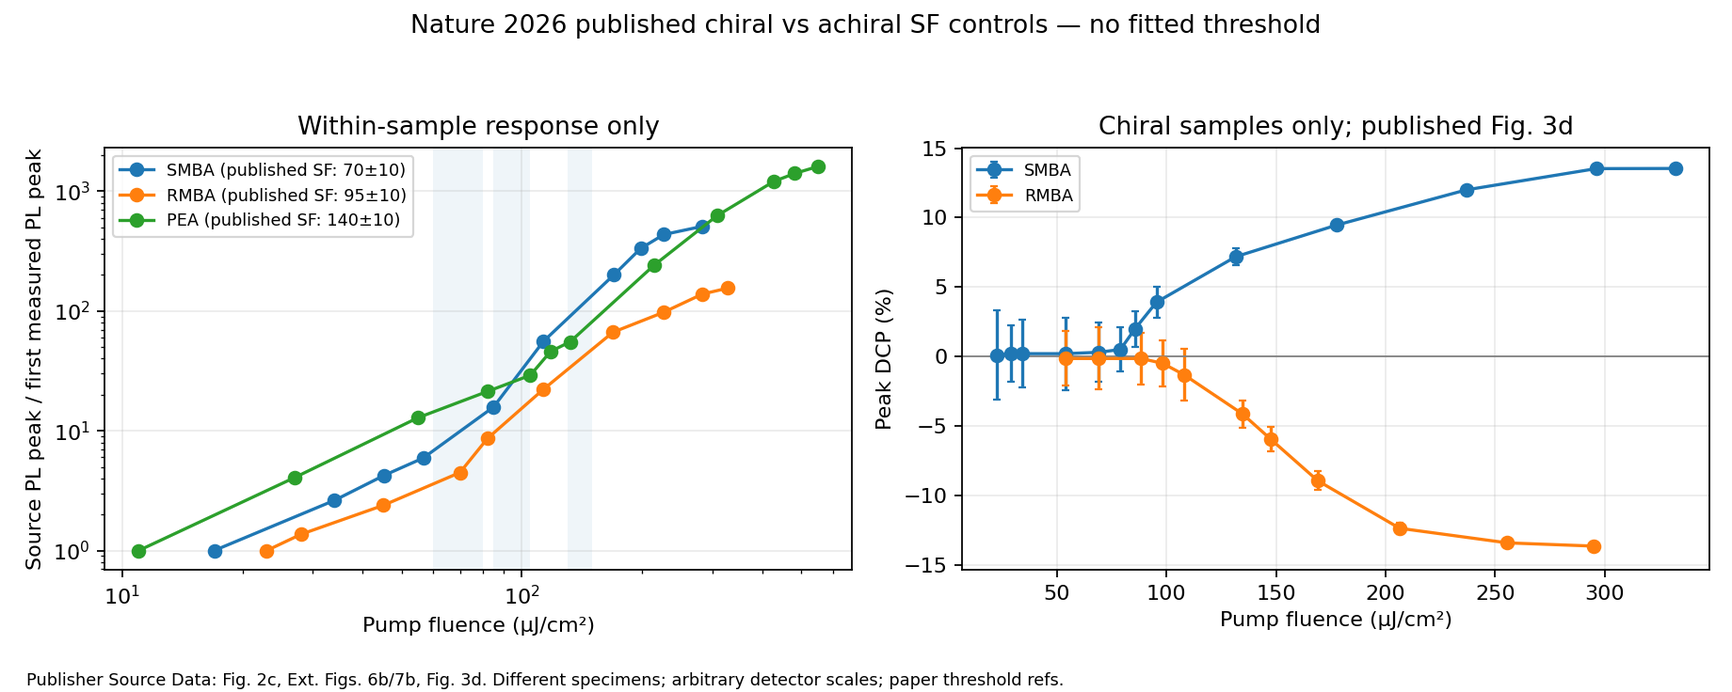
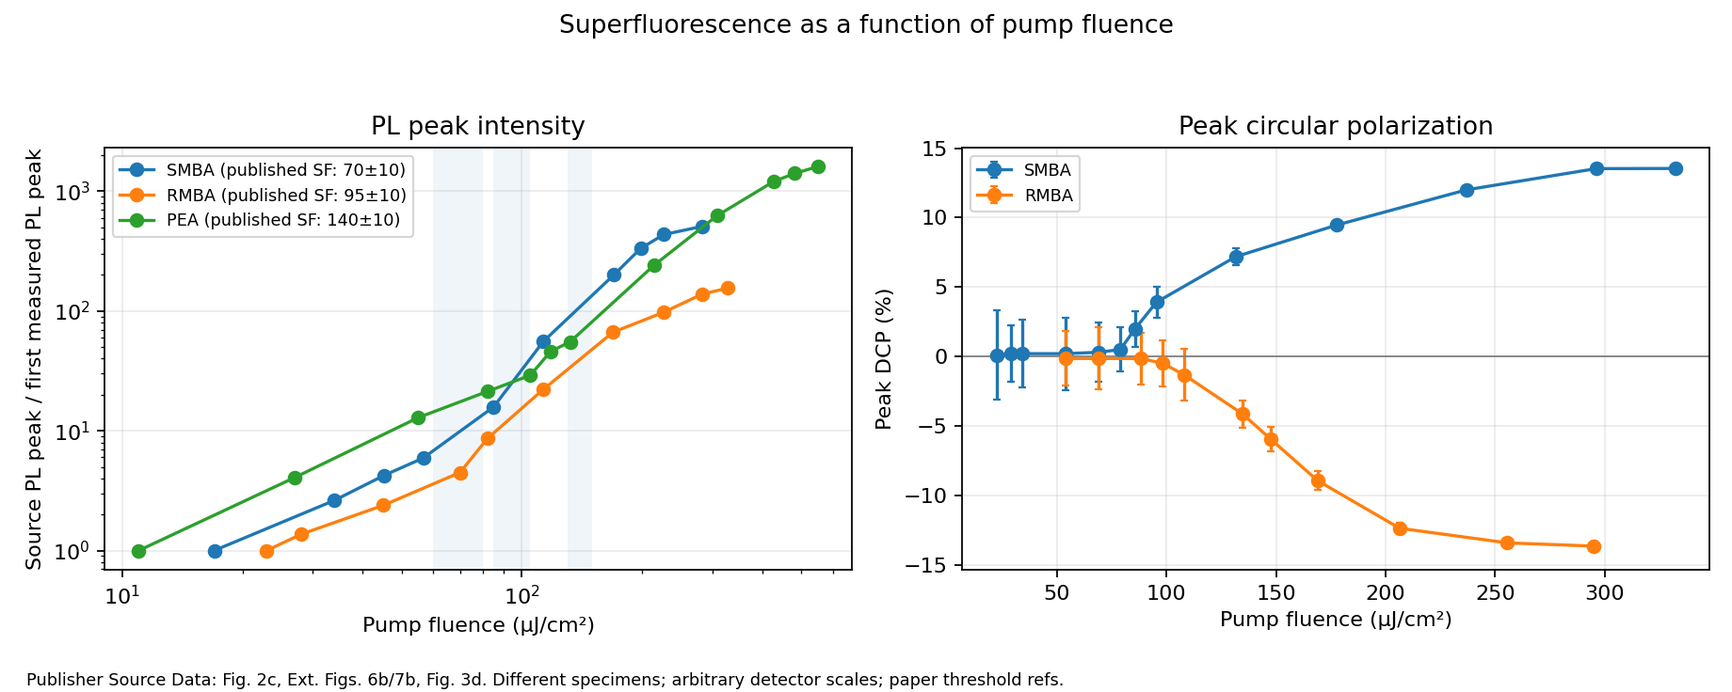
Revise project narrative and figure captions

Changed region(s): [[0.2478, 0.0, 0.7745, 0.0625], [0.6196, 0.1562, 0.8984, 0.2188], [0.1549, 0.1562, 0.3717, 0.2188]]

diff --git a/src/chiral_perovskites/fluence_response.py b/src/chiral_perovskites/fluence_response.py
@@ -148,7 +148,7 @@ def plot_gate(audit:dict,out:Path)->None:
     left.set_xscale("log");left.set_yscale("log")
     left.set_xlabel("Pump fluence (µJ/cm²)")
     left.set_ylabel("Source PL peak / first measured PL peak")
-    left.set_title("Within-sample response only")
+    left.set_title("PL peak intensity")
     left.legend(fontsize=8)
     left.grid(alpha=.25)
     for name,pts in audit["dcp"].items():
@@ -159,10 +159,10 @@ def plot_gate(audit:dict,out:Path)->None:
     right.axhline(0,color="gray",linewidth=.8)
     right.set_xlabel("Pump fluence (µJ/cm²)")
     right.set_ylabel("Peak DCP (%)")
-    right.set_title("Chiral samples only; published Fig. 3d")
+    right.set_title("Peak circular polarization")
     right.legend(fontsize=8)
     right.grid(alpha=.25)
-    fig.suptitle("Nature 2026 published chiral vs achiral SF controls — no fitted threshold",fontsize=12)
+    fig.suptitle("Superfluorescence as a function of pump fluence",fontsize=12)
     fig.text(.015,.01,"Publisher Source Data: Fig. 2c, Ext. Figs. 6b/7b, Fig. 3d. Different specimens; arbitrary detector scales; paper threshold refs.",fontsize=8)
     fig.tight_layout(rect=[0,.04,1,.94])
     out.parent.mkdir(parents=True,exist_ok=True)

diff --git a/src/chiral_perovskites/spin_led.py b/src/chiral_perovskites/spin_led.py
@@ -167,7 +167,7 @@ def create_figures(optical: list[dict], device: list[dict], out_dir: Path) -> No
     ax.errorbar(xs[order], a[order], yerr=ea[order], marker="o", capsize=3, label="polarization (source column)")
     ax.errorbar(xs[order], b[order], yerr=eb[order], marker="s", capsize=3, label="polarization1 (source column)")
     ax.axhline(0,color="gray",linewidth=0.8)
-    ax.set(xlabel="Applied current (raw source values; units via article)", ylabel="Degree of circular polarization (source values)", title="Published spin-LED data — column identities require figure verification")
+    ax.set(xlabel="Applied current (raw source values; units via article)", ylabel="Degree of circular polarization (source values)", title="Spin-LED circular polarization vs applied current")
     ax.legend(fontsize=8)
     fig.savefig(out_dir/"osf_chiral_device_docp.png",dpi=180)
     plt.close(fig)

diff --git a/src/chiral_perovskites/polarized_pl.py b/src/chiral_perovskites/polarized_pl.py
@@ -205,7 +205,7 @@ def plot_one_reproduction(t:np.ndarray, s:np.ndarray, r:np.ndarray,
         axes[1].set_xlabel("Delay (ps)")
         axes[1].set_ylabel("Bright-signal channel contrast (%)")
         axes[1].grid(alpha=.2)
-    fig.suptitle("Source Data Fig. 3c / reproduced chiral SF polarization — no kinetic fit", fontsize=13, y=.98)
+    fig.suptitle("Time-resolved PL and circular polarization", fontsize=13, y=.98)
     fig.text(.02,.040,"Wei et al., Nature 654, 369–374 (2026) | DOI 10.1038/s41586-026-10637-x | 300 µJ/cm²",fontsize=8)
     fig.text(.02,.019,"*RMBA column 2 repeats 'LCP' in publisher XLSX; provisionally opposite-helicity. "
              "Temporal resolution ~10 ps (source spacing 0.35 ps).",fontsize=8)

diff --git a/README.md b/README.md
@@ -1,66 +1,61 @@
-# Chirality and polarization in layered halide perovskites
+# Optical data from chiral layered perovskites
 
-Organic chiral cations can alter the symmetry of layered halide perovskites and the polarization of their optical response. This repository examines published crystal structures, circular dichroism, polarized emission and time-resolved measurements to distinguish structural chirality from the optical and device signals associated with it.
+This started with a comparison of R-, S- and racemic NEA₂PbBr₄ crystal structures. The symmetry assignments were straightforward, but the available optical measurements were made on different crystals or thin films. There was no direct way to relate a particular octahedral distortion to a measured circular-dichroism signal.
 
-The work uses experimental datasets from several studies. The central analysis concerns R/S and achiral perovskite superlattices; single-crystal geometry and chiral spin-LED measurements provide separate comparisons. Results are reproductions and data checks of published experiments, with no new physical mechanism claimed.
+I subsequently looked at published optical datasets that contained both polarization channels, especially the chiral superlattice measurements reported by Wei et al. in 2026. The repository contains the corresponding analysis scripts, selected plots and structural comparisons. All spectra and crystal structures are taken from the cited experimental studies.
 
-## Circularly polarized superfluorescence
+## Time-resolved emission
 
-Wei et al., [*Nature* 654 (2026) 369–374](https://doi.org/10.1038/s41586-026-10637-x), measured polarization-resolved emission from quasi-two-dimensional perovskite superlattices containing R- or S-MBA spacers. Their Fig. 3 source data include paired emission channels over 1,399 delays and a separate fluence-dependent polarization series.
+Wei et al., [*Nature* **654**, 369–374 (2026)](https://doi.org/10.1038/s41586-026-10637-x), published polarization-resolved photoluminescence from superlattices made with R- or S-MBA. Source Data Fig. 3c contains 1,399 delay points for each sample, measured at a pump fluence of 300 µJ cm⁻².
 
-![Reproduced time-resolved emission and circular polarization from published source data](results/nature2026_sf_fig3c_reproduction.png)
+![Time-resolved PL and polarization contrast](results/nature2026_sf_fig3c_reproduction.png)
 
-The degree of circular polarization at the peak of the total emission is +13.49% for the S-MBA sample and −13.76% for R-MBA, calculated directly from the deposited time traces. Subtracting the mean pre-burst background changes these to +13.52% and −13.81%. These values agree with the paper's Fig. 3d measurements near 300 µJ cm⁻².
+Taking the left- and right-circular channels at the maximum of their summed intensity gives peak circular polarization of +13.49% for S-MBA and −13.76% for R-MBA. The corresponding values after subtracting the pre-burst background are +13.52% and −13.81%. Both agree with the published values near 300 µJ cm⁻².
 
-The corresponding fluence data provide an achiral PEA control. Superfluorescence occurs in all three superlattices, while the reported circularly polarized superfluorescence is specific to the chiral samples.
+There is a small but important issue in the Excel file: the second RMBA channel is also headed `LCP`. Its numerical values reproduce the negative polarization reported in the paper when treated as the opposite-helicity channel. The script preserves the deposited header and records this interpretation separately.
 
-![Pump-fluence dependence of superfluorescence and circular polarization](results/nature2026_fluence_control.png)
+The source traces are sampled approximately every 0.35 ps, although the streak-camera resolution reported in the paper is about 10 ps. I have left the analysis at the measured polarization contrast rather than fitting a relaxation time to that sampling interval.
 
-The authors report the following superfluorescence thresholds from time-integrated photoluminescence:
+## Pump fluence and the PEA control
 
-| Superlattice | Published threshold (µJ cm⁻²) |
+The same paper contains fluence-dependent PL for S-MBA, R-MBA and the nonchiral PEA superlattice. PEA also shows superfluorescence. The paper reports circularly polarized superfluorescence for the two chiral samples.
+
+![Published PL fluence response and circular polarization](results/nature2026_fluence_control.png)
+
+| Sample | Superfluorescence threshold reported by Wei et al. (µJ cm⁻²) |
 | --- | ---: |
 | S-MBA | 70 ± 10 |
 | R-MBA | 95 ± 10 |
-| PEA (achiral) | 140 ± 10 |
+| PEA | 140 ± 10 |
 
-The left panel compares each source intensity series relative to its own first measurement. The measured intensities are in arbitrary units and have not been calibrated for comparison across different samples. The right panel shows the deposited R/S peak-polarization data and reported errors.
+These thresholds are taken from the paper's time-integrated PL analysis. The plotted intensity curves are normalized separately, since their raw detector units are not comparable between specimens.
 
-[Polarized-emission analysis](docs/methods.md) · [Numerical results](docs/results.md) · [Fig. 3 audit](results/nature2026_sf_fig3c_audit.json) · [Fluence source audit](results/nature2026_fluence_control_audit.json)
+Another mismatch occurs in the deposited RMBA data: Extended Data Fig. 7a has a time trace labeled 85 µJ cm⁻², whereas Fig. 7b lists an intensity point at 82 µJ cm⁻². The scripts keep these records separate.
 
-## Optical and structural comparisons
+## Other measurements
 
-Hautzinger et al., [*Nature* 631 (2024) 307–312](https://doi.org/10.1038/s41586-024-07560-4), published R/S-MBA perovskite absorption and CD spectra together with circularly polarized electroluminescence from spin-LEDs employing AlGaInP quantum wells.
+The [Hautzinger et al. spin-LED dataset](https://doi.org/10.1038/s41586-024-07560-4) has R/S-MBA absorption, CD and circularly polarized electroluminescence data. The absorption spectra nearly overlap (Pearson r = 0.9992), while the CD traces change sign but are not exact mirror images (r = −0.8752). The electroluminescence comes from an AlGaInP quantum well, so it is treated as a separate device experiment.
 
-![R/S-MBA absorption and circular dichroism from the OSF deposit](results/osf_chiral_cd_abs_pair.png)
+The [Jana et al. crystal structures](https://doi.org/10.1038/s41467-020-18485-7) give `P2₁` for R/S-NEA₂PbBr₄ and `P2₁/c` for the racemate at 298 K. The local Pb–Br geometry and a separate S-MBA₂PbI₄ temperature series are retained under `results/`. An additional front/back CD dataset and a nonchiral transient-absorption example were used to check source-file handling.
 
-Across the deposited wavelengths, the R/S absorption spectra have a Pearson correlation of 0.9992; the CD spectra give −0.8752. The two device-polarization series have opposite signs at six reported current settings. The source file does not identify the handedness of each device-polarization column, so the analysis retains the original channel labels. The quantum-well emission is considered separately from intrinsic perovskite photoluminescence.
+[Detailed results](docs/results.md) · [Methods](docs/methods.md) · [Original datasets](data/README.md)
 
-Jana et al., [*Nature Communications* 11 (2020) 4699](https://doi.org/10.1038/s41467-020-18485-7), deposited R-, S- and racemic NEA₂PbBr₄ crystal structures at 298 K. The R/S structures are assigned to `P2₁`; the racemic structure is `P2₁/c`. The project also contains a 100–298 K series for S-MBA₂PbI₄. Local octahedral geometry is reported alongside symmetry, without using a crystallographic axis-dependent displacement sign as an absolute handedness label.
+## Running the analyses
 
-[Experimental structures](results/nea_matched_298K.csv) · [Structural methods](docs/methods.md)
-
-## Reproducibility
-
-Requires Python 3.10 or later. Raw CIF and spectroscopy files are downloaded from their original repositories and are excluded from Git; source identifiers and checksums are stored with the derived results.
+Python 3.10 or later:
 
 ```bash
 python -m pip install -e ".[dev,viz]"
-
-# Download source files and regenerate analyses
 python scripts/reproduce.py --fetch
-
-# Run the unit tests and verify recorded output fingerprints
 python -m pytest -q
-python scripts/verify_results.py
 ```
 
-To regenerate results without downloading, run `python scripts/reproduce.py` after obtaining the original input files. The individual analysis modules are listed in [Methods](docs/methods.md).
+The first script downloads the original CIF and spectroscopy files and regenerates the plots and tables. When the input files are already present, `python scripts/reproduce.py` reruns the calculations without downloading them.
 
-The repository contains Python analysis code in `src/chiral_perovskites/`, tests in `tests/`, selected figures and tables in `results/`, and the corresponding source inventory in [data/README.md](data/README.md). The [results manifest](results/manifest.json) records hashes for the committed outputs.
+Source measurements stay in `data/raw/`, outside version control. `src/chiral_perovskites/` contains the analysis routines; `results/` contains the published-data comparisons. `python scripts/verify_results.py` checks the committed outputs against [their recorded hashes](results/manifest.json).
 
-## Experimental follow-up
+## Possible experiment
 
-The open data establish reproducible comparisons of published observations. Testing how handedness affects polarization retention would require matched R/S/achiral samples, independent fabrication batches, polarization-resolved time traces, and instrument-response and orientation controls. These measurements are not part of the current repository.
+I have not collected new samples or polarization-resolved measurements for this repository. Before attempting a time-resolved chirality experiment, the practical first step is to establish whether reliable circular-polarization-resolved PL is available for matched R/S films, with sample rotation and polarization calibration. Without that measurement, further analysis of these published traces would mostly revisit the authors' results.
 
-[Experimental considerations](docs/experimental-follow-up.md) · [Data sources](data/README.md) · [License](LICENSE) · [Citation](CITATION.cff)
+[Experimental notes](docs/experimental-follow-up.md) · [License](LICENSE) · [Citation](CITATION.cff)

diff --git a/docs/results.md b/docs/results.md
@@ -1,52 +1,52 @@
-# Results
+# Results and data notes
 
-Numerical values below are derived from original published data, with experimental references retained separately from our calculations. Figure-source data may contain plotting resampling or other processing performed by the original authors.
+These calculations use source files associated with Jana et al. (2020), Hautzinger et al. (2024), Sercel et al. (2025) and Wei et al. (2026). The figures in this repository were regenerated from the deposited data.
 
-## Polarized superfluorescence
+## Chiral superlattice emission
 
-Wei et al., [*Nature* (2026)](https://doi.org/10.1038/s41586-026-10637-x), measured R/S-MBA-derived quasi-2D superlattices with 550 nm linearly polarized excitation at 300 µJ cm⁻² (Fig. 3c).
+Wei et al. measured R/S-MBA-derived superlattices at 550 nm excitation and 300 µJ cm⁻² pump fluence. The Fig. 3c workbook has two intensity columns for each handedness, with 1,399 common delay points. The peak polarization was calculated at the maximum of the two channels' summed intensity.
 
 | Quantity | S-MBA | R-MBA |
 | --- | ---: | ---: |
-| Peak emission time in deposited traces (ps) | 53.24 | 46.25 |
-| Peak DCP from original channels | +13.4949% | −13.7612% |
-| Peak DCP after early background subtraction | +13.5188% | −13.8066% |
-| Fig. 3d point near 300 µJ cm⁻² | +13.5290% | −13.6620% |
+| Peak delay in source file (ps) | 53.24 | 46.25 |
+| Circular polarization at peak | +13.49% | −13.76% |
+| After pre-burst background subtraction | +13.52% | −13.81% |
+| Experimental point in published Fig. 3d | +13.53% | −13.66% |
 
-The baseline-corrected DCP changes by less than approximately 0.02 percentage points across the tested pre-burst windows for each handedness. The peak timing difference is smaller than the approximately 10 ps camera temporal resolution and was measured on different samples. It is not assigned to chirality-dependent relaxation.
+The background calculation used −60 to −40 ps as its default interval. Varying the early window produced only small changes in peak polarization; the actual window-dependent values are in [the numerical output](../results/nature2026_sf_fig3c_audit.json). The 7 ps difference in the tabulated peak delays is not resolved as a sample-independent dynamical difference by a camera with approximately 10 ps temporal resolution.
 
-The original RMBA Fig. 3c headers repeat LCP for the second channel. Reconstructed polarization has the same sign and magnitude as the paper's Fig. 3d measurement when that channel is treated as the opposing helicity; the source file is not edited.
+The second RMBA column is labeled LCP in the original Excel file, just like the first. Keeping its numbers and interpreting it as the opposite-helicity channel recovers the negative polarization given in Fig. 3d. The file remains unchanged.
 
-[Time-resolved figure](../results/nature2026_sf_fig3c_reproduction.png) · [Numerical summary](../results/nature2026_sf_fig3c_audit.json)
+[Polarized-emission figure](../results/nature2026_sf_fig3c_reproduction.png)
 
-## Fluence and achiral control
+## Excitation-density dependence
 
-The same publication reports superfluorescence in S-MBA, R-MBA and achiral PEA superlattices. The authors' time-integrated-PL threshold values are 70±10, 95±10 and 140±10 µJ cm⁻², respectively.
+The deposited source tables provide 10 S-MBA, 10 R-MBA and 12 PEA measurements of peak PL against pump fluence. Wei et al. report time-integrated-PL superfluorescence thresholds of 70 ± 10, 95 ± 10 and 140 ± 10 µJ cm⁻², respectively.
 
-The deposited peak-intensity series contain 10 S, 10 R and 12 PEA fluence points. Fluence-dependent polarization is available for the chiral samples; the original paper reports the absence of circularly polarized superfluorescence in the PEA control.
+All three samples exhibit superfluorescence, including the PEA sample without a chiral spacer. The authors also report no circularly polarized superfluorescence for PEA. The accessible Fig. 3d source workbook, however, contains fluence-dependent DCP points only for S-MBA and R-MBA.
 
-For a comparison with the supplied DCP error bars, the first sampled points satisfying `|DCP| > 2 × reported_error` occur at 95.4 µJ cm⁻² (S) and 134.66 µJ cm⁻² (R). This is a numerical comparison of measured plotting points, separate from the authors' physical SF threshold estimates.
+For those deposited DCP points, the first measurement satisfying `|DCP| > 2 × reported error` occurs at 95.4 µJ cm⁻² for S-MBA and 134.66 µJ cm⁻² for R-MBA. This is a check on the supplied error bars, separate from the superfluorescence threshold fit in the paper.
 
-[Fluence comparison](../results/nature2026_fluence_control.png) · [Source workbook audit](../results/nature2026_fluence_control_audit.json)
+The Extended Data Fig. 7a RMBA time series contains a nominal 85 µJ cm⁻² trace; the corresponding Fig. 7b source table lists 82 µJ cm⁻². The analyses leave these entries unpaired.
 
-## R/S optical spectra and spin-LED measurements
+[Fluence comparison](../results/nature2026_fluence_control.png) · [Source values](../results/nature2026_fluence_control_audit.json)
 
-The [Hautzinger et al. (2024)](https://doi.org/10.1038/s41586-024-07560-4) deposit contains 401 wavelength-aligned R/S CD measurements and 501 absorption points. The corresponding R/S correlations are −0.8752 for CD and +0.9992 for absorption. CD differs from perfect antisymmetry; its normalized sum/difference L2 ratio is 0.5360.
+## Spin-LED spectra
 
-Two spin-LED polarization columns have opposite signs at all six recorded current values. Both values remain separated from zero at five points under ±one reported error and four under ±two errors. The current settings do not represent independent fabricated devices; the source table also lacks an unambiguous R/S mapping for those two columns.
+Hautzinger et al. deposited 401 aligned R/S circular-dichroism points and 501 absorption points. The R/S Pearson correlations are −0.8752 for CD and +0.9992 for absorption. The raw CD curves are not exactly antisymmetric; the norm ratio `||CD_R + CD_S|| / ||CD_R − CD_S||` is 0.5360.
 
-[Optical figure](../results/osf_chiral_cd_abs_pair.png) · [Spin-LED figure](../results/osf_chiral_device_docp.png) · [Error-bar analysis](../results/spin_led_uncertainty_gate.json)
+The two device-polarization columns have opposing signs at all six current settings. Requiring both values' intervals to exclude zero leaves five current settings under ±one deposited error and four under ±two errors. The meaning of those error bars is not defined in the source table, and the columns are labeled `polarization` and `polarization1`, without an explicit R/S mapping. These measurements belong to spin-LED devices whose emitting layer is an AlGaInP quantum well.
 
-## Crystal symmetry and other source audits
+[Optical spectra](../results/osf_chiral_cd_abs_pair.png) · [Device measurements](../results/osf_chiral_device_docp.png)
 
-At 298 K, the experimental R/S-NEA₂PbBr₄ crystal structures are assigned to `P2₁` and the racemic structure to `P2₁/c`. The corresponding mean Pb–Br lengths are approximately 3.0344, 3.0366 and 3.0267 Å; their cis-angle variances are 40.17, 40.47 and 19.75 deg². The signed b-axis displacement in the original cell setting is a coordinate-dependent projection.
+## Structure measurements
 
-The S-MBA₂PbI₄ temperature series provides a separate structural baseline at 100, 200 and 298 K. The S-NEA₂PbBr₄ film CD archive and the nonchiral Cambridge transient absorption traces are independent spectroscopy checks and have no sample-level connection to the crystal comparison.
+The 298 K R/S-NEA₂PbBr₄ structures are both `P2₁); the racemic structure is `P2₁/c`. Mean Pb–Br lengths from the deposited CIFs are 3.0344, 3.0366 and 3.0267 Å for S, R and racemic, with cis-angle variances of 40.17, 40.47 and 19.75 deg². The b-axis projection of the local halide-centroid displacement reverses sign between the deposited R and S settings, but the sign depends on the chosen crystallographic axis.
 
-[NEA crystal comparison](../results/nea_matched_298K.csv) · [MBA temperature series](../results/temperature_summary.csv) · [CD source check](../results/cd_front_back_audit.json) · [Nonchiral transient absorption](../results/dynamics_cambridge_qa.json)
+A separate S-MBA₂PbI₄ series covers 100, 200 and 298 K. The measured front/back CD spectra of a different S-NEA₂PbBr₄ film show another source-format discrepancy: the archived trace labeled as an average agrees numerically with the *sum* of front and back spectra to rounding. The original trace and the arithmetic mean are stored separately.
 
-## Scope of the evidence
+[Crystal comparison](../results/nea_matched_298K.csv) · [Temperature series](../results/temperature_summary.csv) · [Front/back CD comparison](../results/cd_front_back_comparison.csv)
 
-The results reproduce measurements and conclusions already published by the cited authors. In particular, collective optical emission in the achiral PEA control and helicity-dependent emission in the chiral superlattices are established properties of the source study.
+## What these datasets can be used for
 
-The available source files contain processed figure arrays but no original streak-camera frames or independent fabrication replicates. Cross-paper samples differ in structure, growth and detection; quantitative microscopic mechanisms and spin lifetimes are outside the present analyses.
+The studies involve different specimens and in some cases different device architectures. The scripts reproduce optical contrasts, deposited fluence trends and local crystal geometry. The available figure-source workbooks do not include independent fabrication replicates or original camera frames. Further investigation of polarization retention therefore depends on additional measurements rather than a combined numerical fit to these datasets.

diff --git a/docs/experimental-follow-up.md b/docs/experimental-follow-up.md
@@ -1,13 +1,23 @@
-# Experimental considerations
+# Experiment notes
 
-The remaining physical question concerns polarization retention after excitation: how do handedness, structural order and optical measurement geometry influence the time evolution of circularly polarized emission?
+The open-data work suggests one experiment worth discussing with an optical spectroscopy group: time-dependent circular polarization of PL from matched R- and S-MBA perovskite films.
 
-A useful comparison would require a common material platform with R, S and an achiral reference, with the same nominal layer composition and matched synthesis. For the superlattice system, a PEA reference must be characterized for differences in growth and optical confinement; its chemical and structural differences from R/S-MBA are relevant to interpreting any threshold change.
+## First check: polarization measurement
 
-Each independently prepared batch should include structural and optical checks (XRD, absorption, PL and film/domain orientation). Polarization-resolved measurements should record analyzer calibration, front/back acquisition or sample rotation, linear optical anisotropy, and separate left- and right-circular emission channels.
+Before preparing any films, confirm that the available setup can collect separate LCP and RCP emission spectra with a calibrated detection path. I have not established access to such a setup. A normal PL spectrometer or an unpolarized TRPL instrument would not answer this question.
 
-A time-resolved experiment should include the system's instrument response and the same pump fluences for all specimens, with multiple independent preparations and repeated acquisitions. The primary observables are the total time-resolved PL intensity and `[I_LCP(t)-I_RCP(t)]/[I_LCP(t)+I_RCP(t)]`, with the signal-to-noise window reported.
+The first useful measurement would be steady-state PL from a small R/S pair prepared under the same conditions. Record both helicity channels, then repeat the measurement after rotating the sample (for example, 0°, 90° and 180°), with the optics and collection geometry held fixed. This helps reveal texture-dependent apparent polarization. Analyzer calibration and possible linear dichroism or birefringence should be checked before interpreting the circular component.
 
-A minimal feasibility study could begin with repeatable steady-state CPL/PL from a small R/S batch set and proceed to time-resolved polarization only after demonstrating reproducible optical handedness under changes in sample orientation. A change in polarization contrast is not by itself a spin-relaxation measurement; any spin-specific interpretation needs independent spin-sensitive evidence.
+## Initial samples
 
-There is no experimental dataset or laboratory access associated with this proposal in the repository. No fabrication or new measurement has been conducted as part of this project.
+Start with two independently prepared films of each handedness if synthesis access permits, rather than a large library. Check phase and film quality by XRD, absorption and ordinary PL. A racemic film or an achiral reference may be useful, but it needs its own phase and morphology check; changing the spacer can change more than chirality.
+
+If the circular-polarization sign does not reverse reproducibly between R and S, or changes mainly with sample rotation, there is no reason to proceed to the time-resolved measurement in this form.
+
+## Time-resolved measurement
+
+Only after a repeatable steady-state signal is established would it be useful to collect LCP/RCP time traces at matched pump conditions. Save the instrument-response measurement and the raw channels from each specimen, rather than only the derived polarization curve. Compare `I_LCP + I_RCP` and `(I_LCP − I_RCP)/(I_LCP + I_RCP)` within a clearly specified bright-signal window.
+
+The earlier paper reproduction involves superlattices and collective emission under high-fluence excitation; a simpler spin-coated `(R/S-MBA)₂PbI₄` film will not automatically show the same dynamics. The initial experiment should therefore establish the ordinary optical response of that film system before applying any superfluorescence interpretation.
+
+No sample preparation, optical measurement or equipment booking has been carried out for this project.
